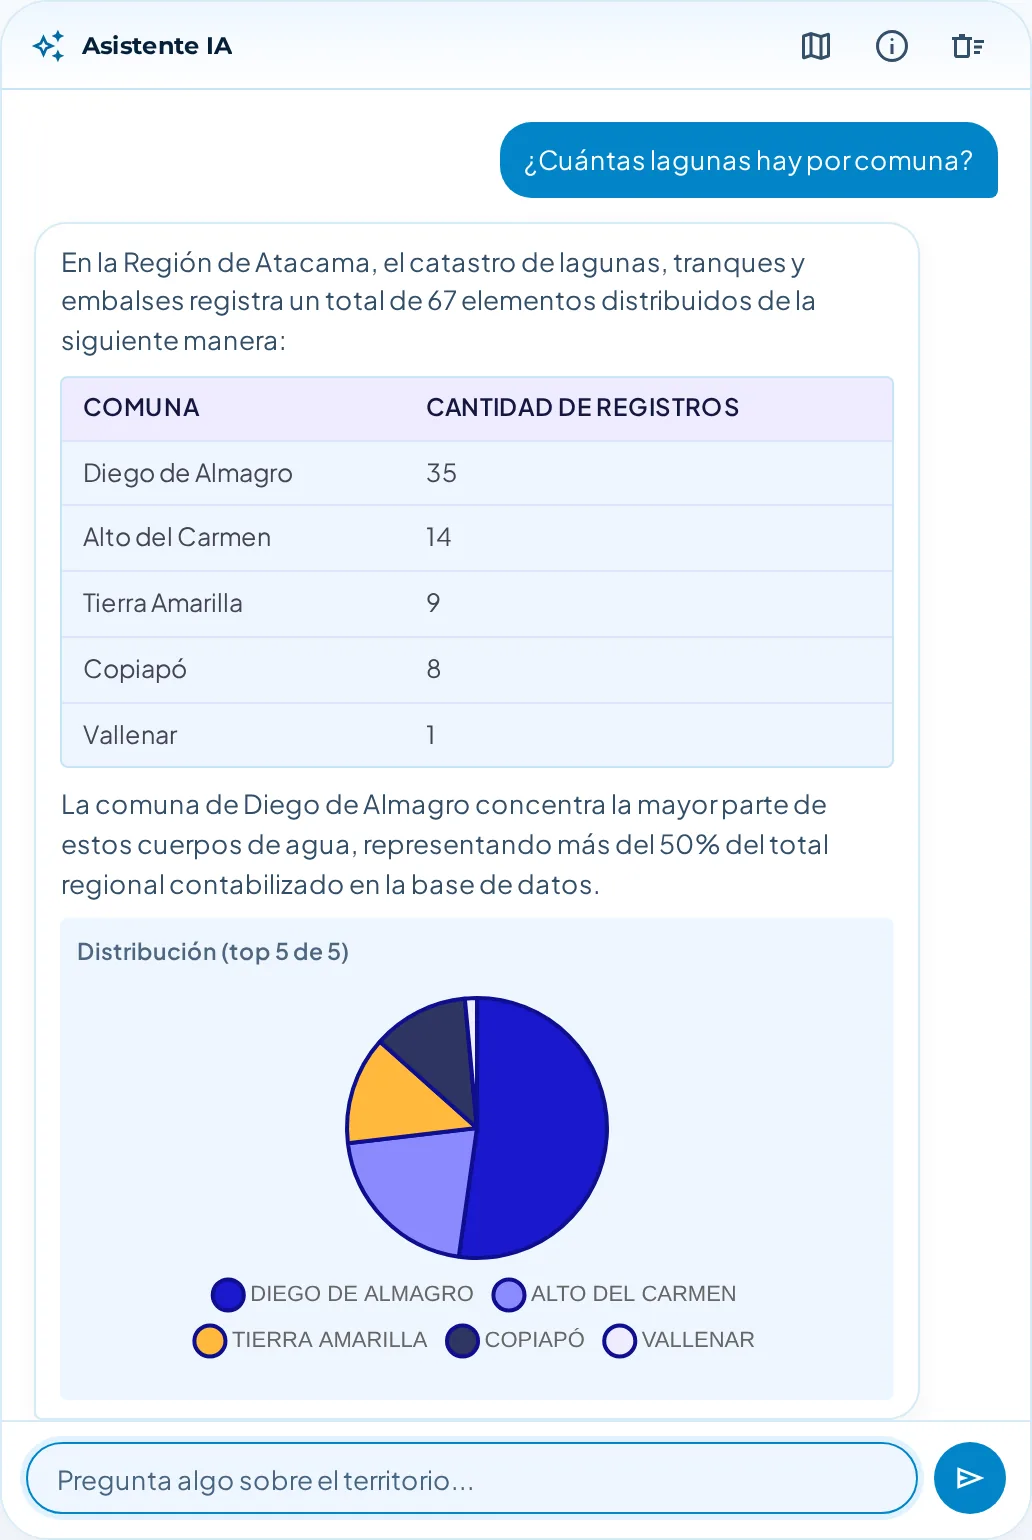
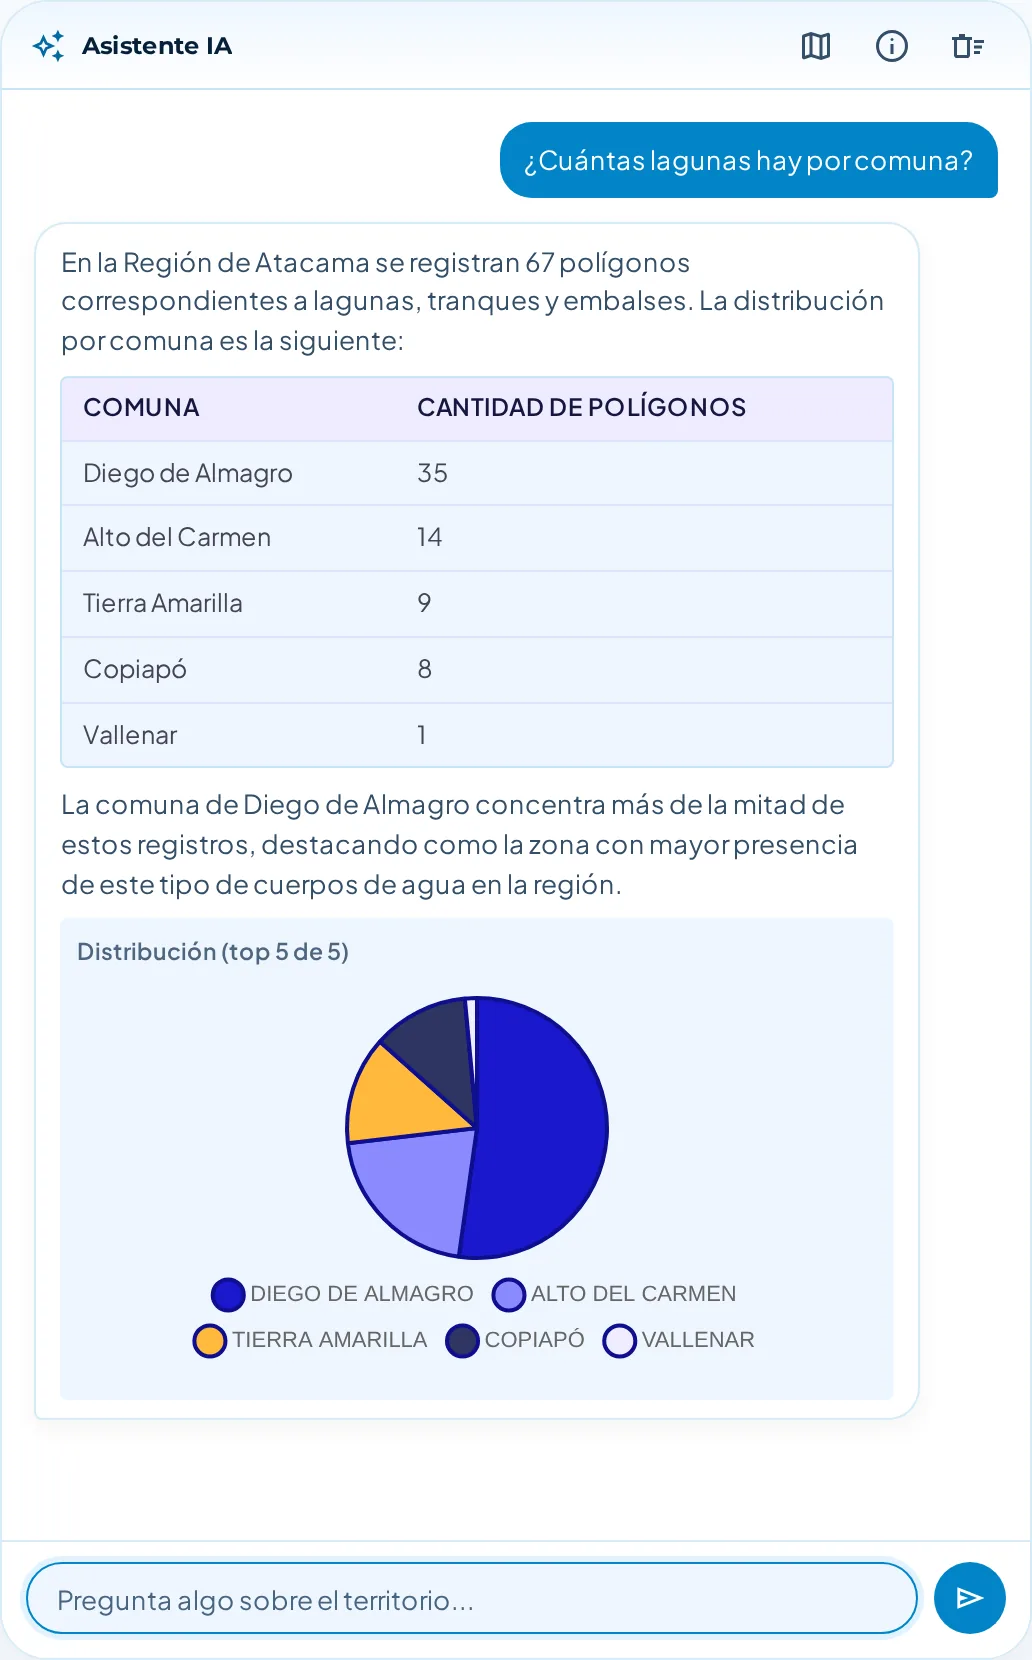
feat: carrusel de capturas reales del chat en la portada

Changed region(s): [[0.031, 0.0, 0.9612, 0.9974], [0.031, 0.0, 0.2481, 0.0623], [0.8372, 0.2182, 0.8682, 0.2494]]

diff --git a/geodatos.html b/geodatos.html
@@ -211,11 +211,32 @@ section[id]{scroll-margin-top:92px}
 .geo-detail:hover .mock-window,.geo-detail:hover .mock-chat{transform:rotate(0)}
 .mock-caption{position:absolute;right:28px;bottom:16px;z-index:2;color:var(--ink-subtle);font-size:10px;font-weight:600;letter-spacing:.02em}
 
-.mock-chat--real{max-width:430px;background:transparent;border:0}
-.mock-chat--real img{display:block;width:100%;height:auto}
+.chat-carousel-shell{display:flex;flex-direction:column;align-items:center;gap:9px;width:100%;max-width:520px}
 .chat-preview-float{width:100%;display:flex;justify-content:center;animation:chatFloat 7s ease-in-out infinite;will-change:transform}
+.mock-chat--carousel{max-width:520px;height:560px;background:#eef6ff}
+.chat-carousel{position:absolute;inset:0}
+.chat-slide{position:absolute;inset:0;display:flex;align-items:center;justify-content:center;margin:0;opacity:0;transition:opacity .8s ease;pointer-events:none}
+.chat-slide.is-active{opacity:1;z-index:1}
+.chat-slide-bg{position:absolute;inset:-18px;background-size:cover;background-position:center;filter:blur(18px) saturate(1.1);opacity:.35;transform:scale(1.06)}
+.chat-slide-img{position:relative;z-index:1;display:block;max-width:100%;max-height:100%;width:auto;height:auto;border-radius:12px;box-shadow:0 10px 28px #0720381f}
+.chat-slide--chat .chat-slide-bg{background-image:url("assets/geodatos/chat-real.webp")}
+.chat-slide--map .chat-slide-bg{background-image:url("assets/geodatos/chat-map.webp")}
+.chat-slide--map-chat .chat-slide-bg{background-image:url("assets/geodatos/chat-map-chat.webp")}
+.chat-carousel-meta{display:flex;align-items:center;justify-content:center;gap:10px;min-height:26px;flex-wrap:wrap}
+.chat-carousel-dots{display:flex;align-items:center;gap:5px}
+.chat-dot{width:6px;height:6px;border:0;border-radius:999px;background:#b8d3e6;padding:0;cursor:pointer;transition:width .2s,background .2s}
+.chat-dot.is-active{width:18px;background:#0284c7}
+.chat-dot:focus-visible{outline:2px solid #0284c7;outline-offset:2px}
+.chat-carousel-caption{color:var(--ink-subtle);font-size:10px;font-weight:600;letter-spacing:.02em}
+.chat-carousel-toggle{display:inline-flex;align-items:center;justify-content:center;width:24px;height:24px;border:1px solid #0284c733;border-radius:50%;background:#fff;color:#0369a1;cursor:pointer;padding:0}
+.chat-carousel-toggle svg{width:11px;height:11px;fill:currentColor}
+.chat-carousel-toggle .icon-play{display:none}
+.chat-carousel-toggle[aria-pressed="true"] .icon-pause{display:none}
+.chat-carousel-toggle[aria-pressed="true"] .icon-play{display:block}
+.chat-carousel-toggle:focus-visible{outline:2px solid #0284c7;outline-offset:2px}
+.chat-carousel-note{color:var(--ink-subtle);font-size:9px;font-weight:500;letter-spacing:.02em;text-align:center}
 @keyframes chatFloat{0%,100%{transform:translateY(0)}50%{transform:translateY(-6px)}}
-@media (prefers-reduced-motion: reduce){.chat-preview-float{animation:none}}
+@media (prefers-reduced-motion: reduce){.chat-preview-float{animation:none}.chat-slide{transition:none}.chat-carousel-toggle{display:none}}
 
 /* ── Mock del geoportal ───────────────────────────────────── */
 .mock-bar{display:flex;align-items:center;gap:8px;padding:10px 12px;border-bottom:1px solid #0284c71f;background:#f4f9ff}
@@ -776,14 +797,45 @@ section[id]{scroll-margin-top:92px}
           <p class="geo-note">El chat se abre dentro del geoportal, en el panel “Asistente IA”.</p>
         </div>
         <div class="geo-visual geo-visual--chat">
-          <div class="chat-preview-float">
-            <div class="mock-chat mock-chat--real">
-              <img src="assets/geodatos/chat-real.webp"
-                alt="Panel del Asistente IA con la consulta ¿Cuántas lagunas hay por comuna? y un gráfico de distribución"
-                width="1032" height="1540" loading="lazy" decoding="async" />
+          <div class="chat-carousel-shell">
+            <div class="chat-preview-float">
+              <div class="mock-chat mock-chat--carousel">
+                <div class="chat-carousel" id="chatCarousel" aria-roledescription="carrusel" aria-label="Vistas reales del chat">
+                  <figure class="chat-slide chat-slide--chat is-active" data-slide="0" role="group" aria-roledescription="vista" aria-label="Chat" aria-hidden="false">
+                    <div class="chat-slide-bg" aria-hidden="true"></div>
+                    <img class="chat-slide-img" src="assets/geodatos/chat-real.webp"
+                      alt="Panel del Asistente IA con la consulta ¿Cuántas lagunas hay por comuna? y un gráfico de distribución"
+                      width="1032" height="1660" loading="lazy" decoding="async" />
+                  </figure>
+                  <figure class="chat-slide chat-slide--map" data-slide="1" role="group" aria-roledescription="vista" aria-label="Mapa" aria-hidden="true">
+                    <div class="chat-slide-bg" aria-hidden="true"></div>
+                    <img class="chat-slide-img" src="assets/geodatos/chat-map.webp"
+                      alt="Mapa de resultados con la capa de lagunas, tranques y embalses"
+                      width="1400" height="1408" loading="lazy" decoding="async" />
+                  </figure>
+                  <figure class="chat-slide chat-slide--map-chat" data-slide="2" role="group" aria-roledescription="vista" aria-label="Mapa y chat" aria-hidden="true">
+                    <div class="chat-slide-bg" aria-hidden="true"></div>
+                    <img class="chat-slide-img" src="assets/geodatos/chat-map-chat.webp"
+                      alt="Mapa de resultados junto al panel del Asistente IA"
+                      width="1600" height="1011" loading="lazy" decoding="async" />
+                  </figure>
+                </div>
+              </div>
             </div>
+            <div class="chat-carousel-meta">
+              <div class="chat-carousel-dots" role="group" aria-label="Elegir vista">
+                <button type="button" class="chat-dot is-active" data-slide-to="0" aria-label="Ver chat" aria-current="true"></button>
+                <button type="button" class="chat-dot" data-slide-to="1" aria-label="Ver mapa"></button>
+                <button type="button" class="chat-dot" data-slide-to="2" aria-label="Ver mapa y chat"></button>
+              </div>
+              <span class="chat-carousel-caption" id="chatCarouselCaption">Chat · 1 de 3</span>
+              <button type="button" class="chat-carousel-toggle" id="chatCarouselToggle" aria-label="Pausar recorrido" aria-pressed="false">
+                <svg class="icon-pause" viewBox="0 0 24 24" aria-hidden="true"><rect x="7" y="5" width="3" height="14"/><rect x="14" y="5" width="3" height="14"/></svg>
+                <svg class="icon-play" viewBox="0 0 24 24" aria-hidden="true"><path d="M8 5v14l11-7z"/></svg>
+              </button>
+            </div>
+            <span class="chat-carousel-note">Capturas reales del chat y el mapa · datos del geoportal</span>
           </div>
-          <span class="mock-caption">Vista real del chat · datos del geoportal</span>
         </div>
       </div>
     </div>

diff --git a/js/geodatos.js b/js/geodatos.js
@@ -29,3 +29,83 @@
     });
   }
 })();
+
+/**
+ * Carrusel de capturas reales del chat (/chat).
+ * Cambia cada 3,5 s, se pausa al pasar el mouse o al enfocar y respeta
+ * prefers-reduced-motion. Los puntos permiten elegir una vista.
+ */
+(function(){
+  var carousel = document.getElementById('chatCarousel');
+  if (!carousel) return;
+
+  var slides = Array.prototype.slice.call(carousel.querySelectorAll('.chat-slide'));
+  var dots = Array.prototype.slice.call(document.querySelectorAll('.chat-dot'));
+  var caption = document.getElementById('chatCarouselCaption');
+  var toggle = document.getElementById('chatCarouselToggle');
+  var labels = ['Chat', 'Mapa', 'Mapa + chat'];
+  var intervalMs = 3500;
+  var current = 0;
+  var timer = null;
+  var paused = false;
+  var reduceMotion = window.matchMedia && window.matchMedia('(prefers-reduced-motion: reduce)').matches;
+
+  function render(index) {
+    current = (index + slides.length) % slides.length;
+    slides.forEach(function(slide, i) {
+      var active = i === current;
+      slide.classList.toggle('is-active', active);
+      slide.setAttribute('aria-hidden', active ? 'false' : 'true');
+    });
+    dots.forEach(function(dot, i) {
+      var active = i === current;
+      dot.classList.toggle('is-active', active);
+      if (active) dot.setAttribute('aria-current', 'true');
+      else dot.removeAttribute('aria-current');
+    });
+    if (caption) {
+      caption.textContent = labels[current] + ' · ' + (current + 1) + ' de ' + slides.length;
+    }
+  }
+
+  function stop() {
+    if (timer) {
+      clearInterval(timer);
+      timer = null;
+    }
+  }
+
+  function start() {
+    if (reduceMotion || paused || document.hidden) return;
+    stop();
+    timer = setInterval(function() { render(current + 1); }, intervalMs);
+  }
+
+  function select(index) {
+    render(index);
+    start();
+  }
+
+  dots.forEach(function(dot, i) {
+    dot.addEventListener('click', function() { select(i); });
+  });
+
+  if (toggle) {
+    toggle.addEventListener('click', function() {
+      paused = !paused;
+      toggle.setAttribute('aria-pressed', paused ? 'true' : 'false');
+      toggle.setAttribute('aria-label', paused ? 'Reanudar recorrido' : 'Pausar recorrido');
+      if (paused) stop();
+      else start();
+    });
+  }
+
+
+  document.addEventListener('visibilitychange', function() {
+    if (document.hidden) stop();
+    else start();
+  });
+
+  render(0);
+  if (!reduceMotion) start();
+})();

diff --git a/scripts/__tests__/geodatos-landing.test.js b/scripts/__tests__/geodatos-landing.test.js
@@ -72,6 +72,8 @@ test("los assets y el JS de la portada existen", async () => {
   await exists("js/geodatos.js");
   await exists("assets/geodatos/logo-atacamawoll.webp");
   await exists("assets/geodatos/chat-real.webp");
+  await exists("assets/geodatos/chat-map.webp");
+  await exists("assets/geodatos/chat-map-chat.webp");
   await exists("assets/geodatos/og-geodatos.webp");
   await exists("css/fonts/plus-jakarta-sans-latin.woff2");
   await exists("css/fonts/plus-jakarta-sans-OFL.txt");
@@ -111,11 +113,20 @@ test("los CTA de las tarjetas usan el estilo del botón principal", async () => 
   assert.doesNotMatch(html, /geo-card-cta/);
 });
 
-test("el chat de la portada usa una captura real, no un mock", async () => {
+test("el chat de la portada usa capturas reales en carrusel", async () => {
   const html = await read("geodatos.html");
+  const js = await read("js/geodatos.js");
 
-  assert.match(html, /assets\/geodatos\/chat-real\.webp/);
-  assert.match(html, /class="chat-preview-float"/);
-  assert.match(html, /Vista real del chat/);
+  assert.match(html, /id="chatCarousel"/);
+  assert.match(html, /chat-slide--chat/);
+  assert.match(html, /chat-slide--map/);
+  assert.match(html, /chat-slide--map-chat/);
+  assert.match(html, /chat-map\.webp/);
+  assert.match(html, /chat-map-chat\.webp/);
+  assert.match(html, /chat-carousel-toggle/);
+  assert.match(html, /Capturas reales/);
   assert.doesNotMatch(html, /mock-chat-body|mock-msg|mock-mini-chart/);
+  assert.match(js, /chatCarousel/);
+  assert.match(js, /3500/);
+  assert.match(js, /prefers-reduced-motion/);
 });

diff --git a/docs/CHANGELOG.md b/docs/CHANGELOG.md
@@ -48,7 +48,7 @@
 ## [Unreleased]
 
 ### Added
-- **Portada: captura real del chat:** se reemplazó el mock ilustrativo por una captura 2x del panel real del Asistente IA (WebP 1032×1540, 69 KB), con una consulta y un gráfico de datos reales. Incluye una animación CSS de flotación de 7 s, desactivada con `prefers-reduced-motion`, y se retiró el CSS del mock falso.
+- **Portada: carrusel de capturas reales del chat:** tres vistas reales —chat, mapa y mapa + chat— en WebP (70-82 KB cada una), con transición de 0,8 s cada 3,5 s. Incluye puntos de navegación, pausa/reanudar y `prefers-reduced-motion` (sin autoplay). Se retiró el mock falso.
 - **Portada: CTA de tarjetas con el botón principal:** “Abrir geoportal”, “Abrir chat” y “Ver la propuesta” usan el mismo estilo del hero (pill azul, 44 px) y quedan alineados al pie de cada tarjeta.
 - **Portada: CTA único en el hero:** se quitó “Abrir geoportal” y quedó solo “Explorar las herramientas”. Los accesos al geoportal y al chat se mantienen en las tarjetas, secciones y pie.
 - **Portada: “Productos” pasa a “Herramientas”:** CTA “Explorar las herramientas”, estadística del hero, kicker de la sección, ancla `#herramientas`, KPI del mock del dashboard y `aria-label` del chat. Sin cambios de diseño ni de contenido.

diff --git a/docs/ROADMAP.md b/docs/ROADMAP.md
@@ -1309,8 +1309,8 @@ Bitácora cronológica descendente. Se actualiza al cierre de cada sesión.
   se quitó “Abrir geoportal” de ese bloque.
 - ✅ **Portada:** los CTA de las tarjetas usan el botón principal del hero
   (“Abrir geoportal”, “Abrir chat” y “Ver la propuesta”).
-- ✅ **Portada:** el mock del chat se reemplazó por una captura real 2x del
-  panel del Asistente IA, con animación de flotación y datos reales.
+- ✅ **Portada:** el mock del chat se reemplazó por un carrusel de 3 capturas
+  reales (chat, mapa y mapa + chat) que rota cada 3,5 s, con pausa y reduced motion.
 
 
 
